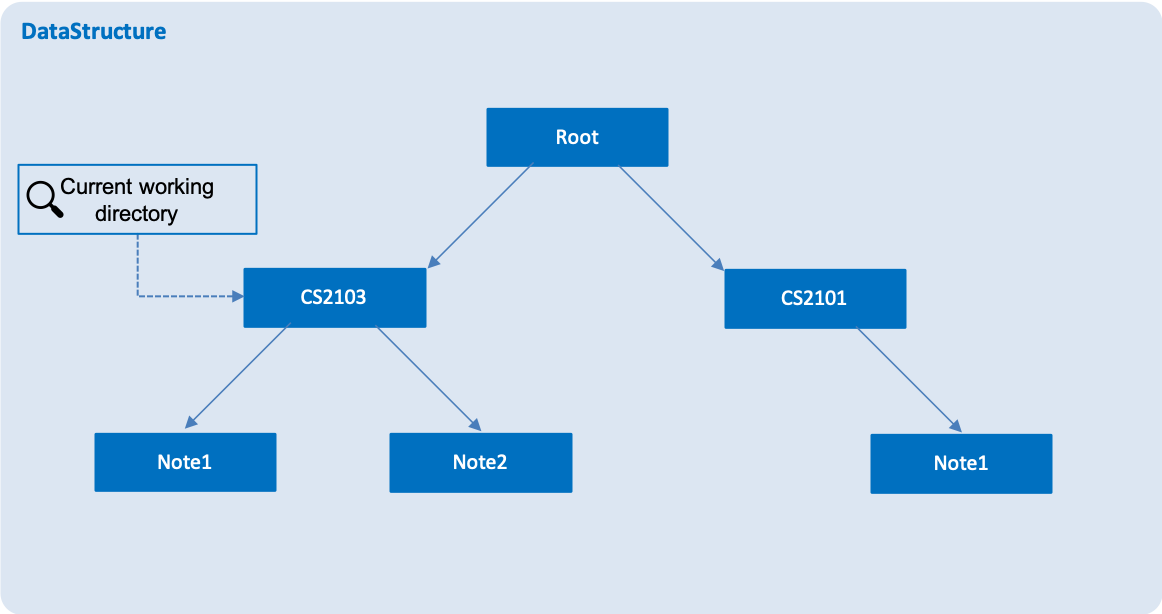
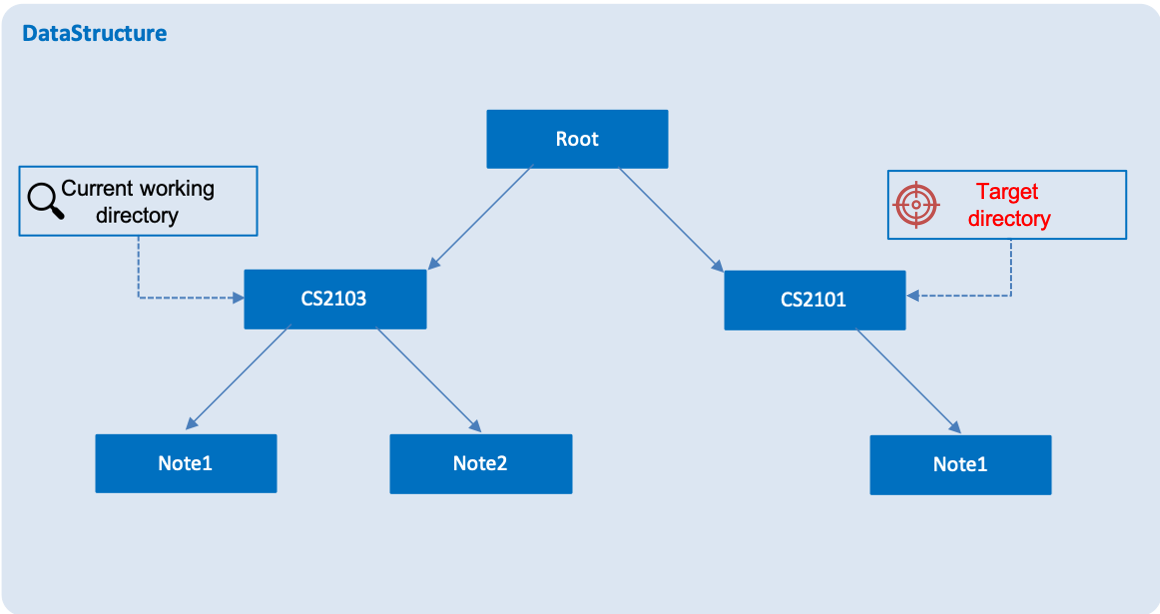
Rebuild pages at 6154d672e743b61fbdf2e33a3e25ab3f26e4b701

diff --git a/UserGuide.html b/UserGuide.html
@@ -9,7 +9,12 @@
 <div id="toc" class="toc">
 <div id="toctitle"></div>
 <ul class="sectlevel1">
-<li><a href="#introduction">1. Introduction</a></li>
+<li><a href="#introduction">1. Introduction</a>
+<ul class="sectlevel2">
+<li><a href="#an-introduction-to-notably">1.1. An Introduction to Notably</a></li>
+<li><a href="#symbols-used-in-this-guide">1.2. Symbols used in this guide</a></li>
+</ul>
+</li>
 <li><a href="#quick-start-work-in-progress">2. Quick Start [Work in progress]</a></li>
 <li><a href="#features">3. Features</a>
 <ul class="sectlevel2">
@@ -35,6 +40,57 @@
 <div class="sectionbody">
 <div class="paragraph">
 <p>Notably is for those who <strong>prefer to use a desktop app for managing notes</strong>. More importantly, Notably is <strong>optimized for those who prefer to work with a Command Line Interface</strong> (CLI) while still having the benefits of a Graphical User Interface (GUI). If you can type fast, Notably can get your notes taken down faster than traditional GUI apps.</p>
+</div>
+<div class="sect2">
+<h3 id="an-introduction-to-notably"><a class="link" href="#an-introduction-to-notably">1.1. An Introduction to Notably</a></h3>
+<div class="paragraph">
+<p>The image shown below highlights the different sections of Notably&#8217;s user interface:</p>
+</div>
+<div class="imageblock">
+<div class="content">
+<img src="images/introToNotably.png" alt="introToNotably" width="900">
+</div>
+<div class="title">Figure 1. Notably GUI quickguide</div>
+</div>
+</div>
+<div class="sect2">
+<h3 id="symbols-used-in-this-guide"><a class="link" href="#symbols-used-in-this-guide">1.2. Symbols used in this guide</a></h3>
+<div class="admonitionblock note">
+<table>
+<tr>
+<td class="icon">
+<i class="fa icon-note" title="Note"></i>
+</td>
+<td class="content">
+Denotes something that you may want to take note of.
+</td>
+</tr>
+</table>
+</div>
+<div class="admonitionblock tip">
+<table>
+<tr>
+<td class="icon">
+<i class="fa icon-tip" title="Tip"></i>
+</td>
+<td class="content">
+Denotes something that may be helpful if you are having any difficulties.
+</td>
+</tr>
+</table>
+</div>
+<div class="admonitionblock warning">
+<table>
+<tr>
+<td class="icon">
+<i class="fa icon-warning" title="Warning"></i>
+</td>
+<td class="content">
+Denotes a warning for something critical.
+</td>
+</tr>
+</table>
+</div>
 </div>
 </div>
 </div>
@@ -88,6 +144,101 @@ e.g. typing <strong><code>help</code></strong> and pressing <kbd>Enter</kbd> wil
 <p>Parameters can be in any order e.g. if the command specifies <code>-t TITLE -b BODY</code>, <code>-b BODY -t TITLE</code> is also acceptable.</p>
 </li>
 </ul>
+</div>
+</div>
+</div>
+<div class="exampleblock">
+<div class="content">
+<div class="paragraph">
+<p><strong>Paths</strong></p>
+</div>
+<div class="ulist">
+<ul>
+<li>
+<p><code>Paths</code> are used to specify the directory you want to <code>Commands</code> to be executed.</p>
+</li>
+<li>
+<p>There are 2 types of  <code>Path</code> namely:</p>
+<div class="ulist">
+<ul>
+<li>
+<p>AbsolutePath (Take reference from the root)</p>
+</li>
+<li>
+<p>RelativePath (Take reference from the current directory)</p>
+</li>
+</ul>
+</div>
+</li>
+</ul>
+</div>
+<div class="paragraph">
+<p>The Relative Path operate similar to the command line input that you may be familiar with.
+Listed below are the notations used to define a relative path.</p>
+</div>
+<div class="ulist">
+<ul>
+<li>
+<p><code>..</code> (Move to parent note)</p>
+</li>
+<li>
+<p><code>exampleNote</code> (Move to child node titled "exampleNote")</p>
+</li>
+</ul>
+</div>
+<div class="admonitionblock note">
+<table>
+<tr>
+<td class="icon">
+<i class="fa icon-note" title="Note"></i>
+</td>
+<td class="content">
+The title of a Note can take in alphanumeric variables and spaces.
+</td>
+</tr>
+</table>
+</div>
+<div class="paragraph">
+<p><strong>Example</strong></p>
+</div>
+<div class="paragraph">
+<p>The picture below helps to illustrate the use of <code>RelativePath</code> and <code>AbsolutePath</code></p>
+</div>
+<div class="imageblock">
+<div class="content">
+<img src="images/PathExample1.png" alt="PathExample1" width="790">
+</div>
+<div class="title">Figure 2. DataStructure example to illustrate Path</div>
+</div>
+<div class="paragraph">
+<p>The <code>AbsolutePath</code> <code>/CS2101</code> is equivalent to <code>RelativePath</code> <code>../2101</code></p>
+</div>
+<div class="paragraph">
+<p>Thus <code>open /CS2101</code> and <code>open ../CS2101</code> would yield the same result.</p>
+</div>
+<div class="admonitionblock note">
+<table>
+<tr>
+<td class="icon">
+<i class="fa icon-note" title="Note"></i>
+</td>
+<td class="content">
+Paths are used by the <code>open</code> and <code>delete</code> command
+</td>
+</tr>
+</table>
+</div>
+<div class="admonitionblock warning">
+<table>
+<tr>
+<td class="icon">
+<i class="fa icon-warning" title="Warning"></i>
+</td>
+<td class="content">
+We cannot open or delete the parent of the root note because it does not exist. e.g <code>Delete /../</code> will result in an error.
+</td>
+</tr>
+</table>
 </div>
 </div>
 </div>
@@ -265,4 +416,4 @@ There is no need to save manually.</p>
 </ul>
 </div>
 </div>
-</div></div><div id="footer"><div class="container"><div id="footer-text">Last updated 2020-03-31 15:55:00 UTC</div></div></div></body></html>
+</div></div><div id="footer"><div class="container"><div id="footer-text">Last updated 2020-03-31 15:55:41 UTC</div></div></div></body></html>

diff --git a/Documentation.html b/Documentation.html
@@ -210,4 +210,4 @@ You can modify them to change some properties of the site&#8217;s design.</p>
 These template files are written in a mixture of <a href="https://www.ruby-lang.org">Ruby</a> and <a href="http://slim-lang.com">Slim</a>.</p>
 </div>
 </div>
-</div></div><div id="footer"><div class="container"><div id="footer-text">Last updated 2020-03-31 15:55:00 UTC</div></div></div></body></html>
+</div></div><div id="footer"><div class="container"><div id="footer-text">Last updated 2020-03-31 15:55:41 UTC</div></div></div></body></html>

diff --git a/tutorials/RemovingFields.html b/tutorials/RemovingFields.html
@@ -175,4 +175,4 @@ While keeping the <code>address</code> field in the json files does not cause th
 <p>You can go through each individual <code>json</code> file and manually remove the <code>address</code> field.</p>
 </div>
 </div>
-</div></div><div id="footer"><div class="container"><div id="footer-text">Last updated 2020-03-31 15:55:00 UTC</div></div></div></body></html>
+</div></div><div id="footer"><div class="container"><div id="footer-text">Last updated 2020-03-31 15:55:41 UTC</div></div></div></body></html>

diff --git a/tutorials/AddRemark.html b/tutorials/AddRemark.html
@@ -616,4 +616,4 @@ In this case, <code>CommandTestUtil#assertCommandSuccess</code> is the best fit 
 <p>This concludes the tutorial for adding a new <code>Command</code> to AddressBook.</p>
 </div>
 </div>
-</div></div><div id="footer"><div class="container"><div id="footer-text">Last updated 2020-03-31 15:55:00 UTC</div></div></div></body></html>
+</div></div><div id="footer"><div class="container"><div id="footer-text">Last updated 2020-03-31 15:55:41 UTC</div></div></div></body></html>

diff --git a/Testing.html b/Testing.html
@@ -90,4 +90,4 @@ e.g. <code>com.notably.logic.LogicManagerTest</code></p>
 <div class="title">Figure 1. <code>Accessibility</code> permission is granted to <code>IntelliJ IDEA</code></div>
 </div>
 </div>
-</div></div><div id="footer"><div class="container"><div id="footer-text">Last updated 2020-03-31 15:55:00 UTC</div></div></div></body></html>
+</div></div><div id="footer"><div class="container"><div id="footer-text">Last updated 2020-03-31 15:55:41 UTC</div></div></div></body></html>

diff --git a/index.html b/index.html
@@ -84,4 +84,4 @@ Notably allows you to get your notes taken down faster than traditional GUI apps
 <div class="sectionbody">
 
 </div>
-</div></div><div id="footer"><div class="container"><div id="footer-text">Last updated 2020-03-31 15:55:00 UTC</div></div></div></body></html>
+</div></div><div id="footer"><div class="container"><div id="footer-text">Last updated 2020-03-31 15:55:41 UTC</div></div></div></body></html>

diff --git a/ContactUs.html b/ContactUs.html
@@ -12,4 +12,4 @@
 <p><strong>Email us</strong> : You can also reach us at <code>firzan.armani [at] u.nus.edu</code></p>
 </li>
 </ul>
-</div></div><div id="footer"><div class="container"><div id="footer-text">Last updated 2020-03-31 15:55:00 UTC</div></div></div></body></html>
+</div></div><div id="footer"><div class="container"><div id="footer-text">Last updated 2020-03-31 15:55:41 UTC</div></div></div></body></html>

diff --git a/SettingUp.html b/SettingUp.html
@@ -131,4 +131,4 @@ Do not disable them. If you have disabled them, go to <code>File</code> &gt; <co
 </div>
 </div>
 </div>
-</div></div><div id="footer"><div class="container"><div id="footer-text">Last updated 2020-03-31 15:55:00 UTC</div></div></div></body></html>
+</div></div><div id="footer"><div class="container"><div id="footer-text">Last updated 2020-03-31 15:55:41 UTC</div></div></div></body></html>

diff --git a/UsingGradle.html b/UsingGradle.html
@@ -228,4 +228,4 @@ See <code>build.gradle</code> &#8594; <code>allprojects</code> &#8594; <code>dep
 </ul>
 </div>
 </div>
-</div></div><div id="footer"><div class="container"><div id="footer-text">Last updated 2020-03-31 15:55:00 UTC</div></div></div></body></html>
+</div></div><div id="footer"><div class="container"><div id="footer-text">Last updated 2020-03-31 15:55:41 UTC</div></div></div></body></html>

diff --git a/UsingNetlify.html b/UsingNetlify.html
@@ -138,4 +138,4 @@ The publish directory is the directory in which the built HTML documentation res
 </ol>
 </div>
 </div>
-</div></div><div id="footer"><div class="container"><div id="footer-text">Last updated 2020-03-31 15:55:00 UTC</div></div></div></body></html>
+</div></div><div id="footer"><div class="container"><div id="footer-text">Last updated 2020-03-31 15:55:41 UTC</div></div></div></body></html>

diff --git a/team/portfolio_template.html b/team/portfolio_template.html
@@ -161,4 +161,4 @@
 <p><em>{Optionally, you may include other projects in your portfolio.}</em></p>
 </div>
 </div>
-</div></div><div id="footer"><div class="container"><div id="footer-text">Last updated 2020-03-31 15:55:00 UTC</div></div></div></body></html>
+</div></div><div id="footer"><div class="container"><div id="footer-text">Last updated 2020-03-31 15:55:41 UTC</div></div></div></body></html>

diff --git a/UsingTravis.html b/UsingTravis.html
@@ -292,4 +292,4 @@ Suggested change: Remove the codacy badge from <code>README</code>.</p>
 </div>
 </div>
 </div>
-</div></div><div id="footer"><div class="container"><div id="footer-text">Last updated 2020-03-31 15:55:00 UTC</div></div></div></body></html>
+</div></div><div id="footer"><div class="container"><div id="footer-text">Last updated 2020-03-31 15:55:41 UTC</div></div></div></body></html>
